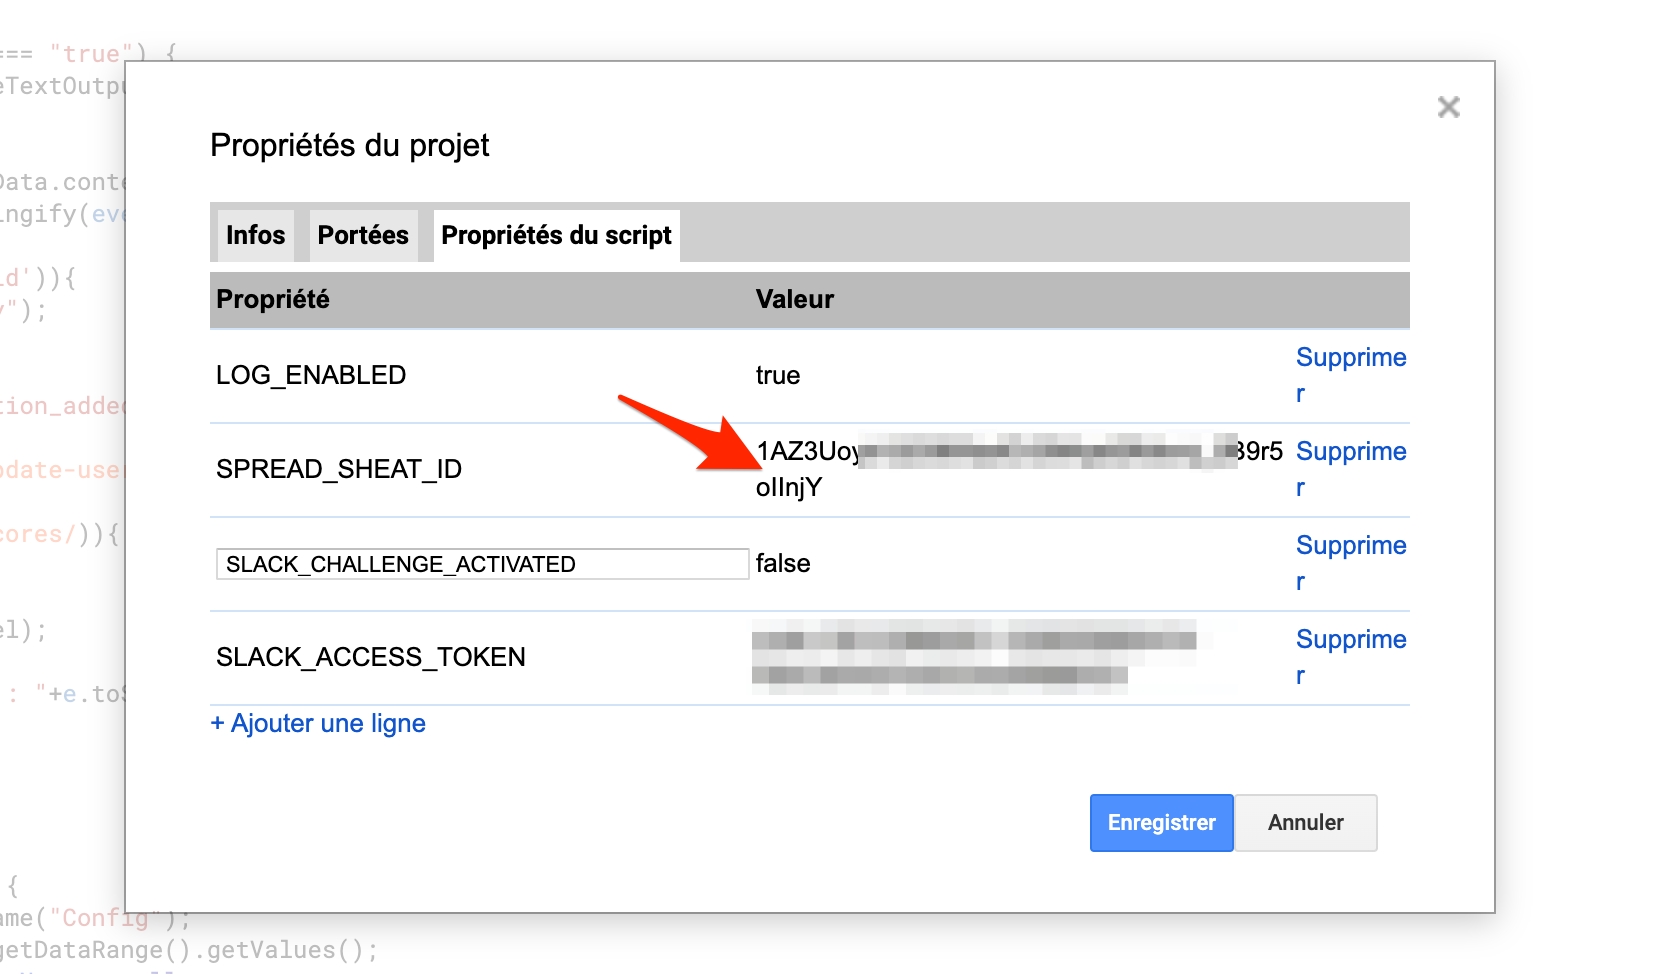
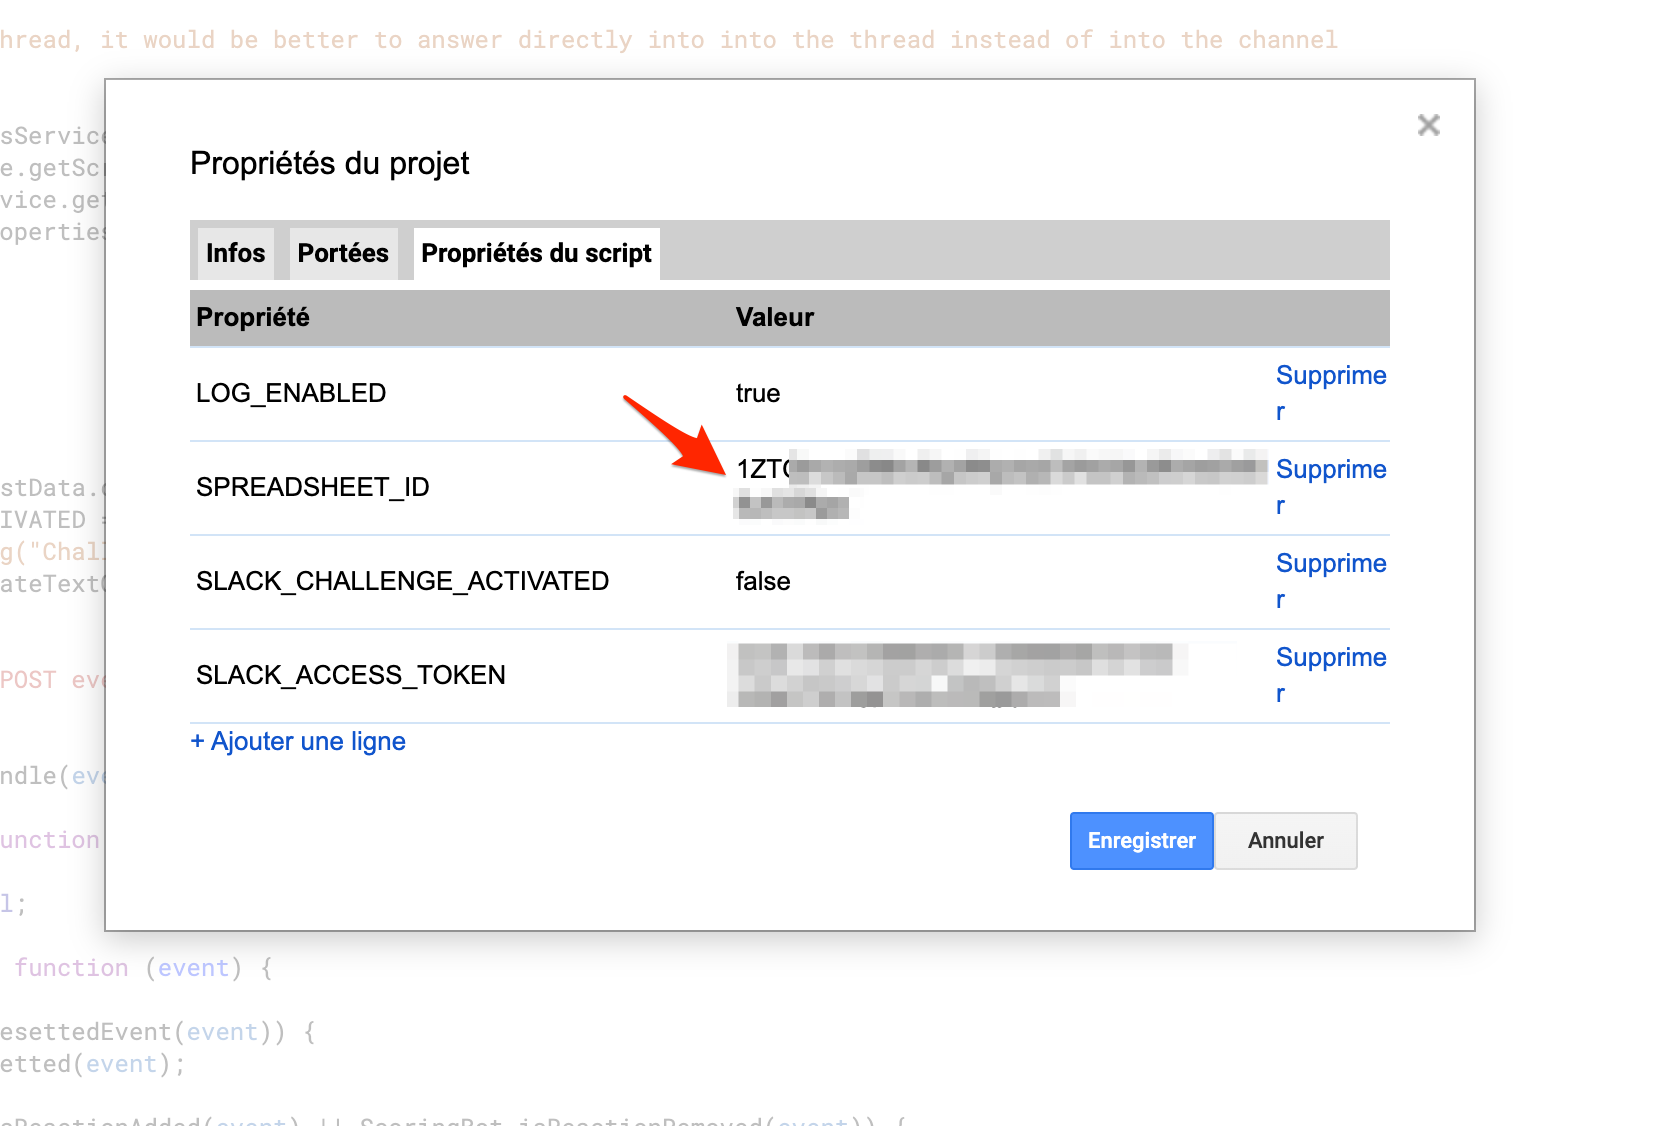
added installation precisions

diff --git a/scoring-slack-bot/main/index.ts b/scoring-slack-bot/main/index.ts
@@ -102,6 +102,7 @@ class ScoringBot {
         this.updateUsers();
       } else if(ScoringBot.isUpdateUsersCommand(event)) {
         this.updateUsers();
+        this.botShouldSay(event.channel, "Users have been updated");
       } else if(ScoringBot.isScoresCommand(event)) {
         this.showScoresFor(event.channel);
       } else if(ScoringBot.isHelpCommand(event)) {
@@ -255,7 +256,7 @@ Following observed interactions are configured on this channel :
     for(let i=0; i<configuredReactions.length; i++){
       const reaction = configuredReactions[i];
       const scoreIncrement = channelConfig.config.reactionsConfigs[reaction].scoreIncrement;
-      message += `- When reaction :${reaction}: is set ${allowedUserMessage} : adding ${scoreIncrement} point${(scoreIncrement>1?"s":"")} for message author receving the reaction\n`;
+      message += `- When reaction :${reaction}: is set ${allowedUserMessage} : adding ${scoreIncrement} point${(scoreIncrement>1?"s":"")} for target message's author receving the reaction\n`;
     }
 
     message += `

diff --git a/README.md b/README.md
@@ -35,9 +35,10 @@ Some sample quizz channel I setup at 4SH using this bot :
 ### Slack Bot Deployment
 
 - Move to the `scoring-slack-bot/` directory then run `npm install` on it
-- Authenticate with `clasp` (google app script CLI) with `npx clasp login` (follow instructions)
+- Authenticate with `clasp` (google app script CLI) with `npx clasp login` (follow instructions)  
+  Note: `clasp` is a CLI to manage your Google App Scripts, and it's powered by Google (more infos [here](https://codelabs.developers.google.com/codelabs/clasp/))
 - Enable app script API here : https://script.google.com/home/usersettings
-- Run `npx clasp create` then choose `api` in the list of script types : a new google app script should be created under your google account.
+- Run `npx clasp create --type api` : a new google app script should be created under your google account.
 - Run `npx clasp push` (or `npx clasp push --watch` if you want to edit/auto-deploy some changes made to the script)
   - `Manifest file has been updated. Do you want to push and overwrite?` => Answer "Yes" here
     Files are going to be compiled and pushed into your Google App Script.
@@ -45,17 +46,17 @@ Some sample quizz channel I setup at 4SH using this bot :
 - Open your app script by running `npx clasp open`
   - Once opened, click on the "play" button in order to try to execute doPost function
   - By executing this, you should have an `Authorization required` popup : examine and grant authorizations to your current google account
+    Note that if you get a "This application has not been validated (yet) by Google" error, click on `Advanced parameters`
+    and proceed to the page (unsecure content)
   - There may have some errors executing doPost : don't worry that's expected (purpose was only to grant authorization to your user)
-  - Open the `Publish > Deploy as web app menu`
-  - In the popup, copy/paste the "Current Web app URL" : this is going to be your HTTP entrypoint for the Bot  
+  - Open the `Publish > Deploy as web app` menu
+  - In the popup, copy `Current Web app` URL : this is going to be your HTTP entrypoint for the Bot  
     ⚠ Avoid sharing this URL too widely, as anyone having access to this URL will be able to control the Bot and cheat :-)
   - Open `File > Project Properties` and select the `Script Properties` tab then create following properties / values :
 
   | Property name | Value | Meaning |
   |---------------|-------|---------|
-  | SLACK_ACCESS_TOKEN | _let this blank for the moment_ | This is going to be useful, but later |
   | LOG_ENABLED | true | This can be helpful to see logs, particularly at the beginning |
-  | SPREADSHEET_ID | _let this blank for the moment_ | This is going to be useful, but later |
   | SLACK_CHALLENGE_ACTIVATED | true | Put this to true in order to allow Slack bot challenge |
 
 
@@ -68,11 +69,11 @@ Some sample quizz channel I setup at 4SH using this bot :
   <img src="./assets/Slack_App_Creation_Popup.png" width="800px" alt="Filling App Creation Popup" />
 - Once done, and from `Basic Information` screen, open the `Event subscriptions` configuration page
   <img src="./assets/Slack_Bot_-_subscribe_to_events.png" width="800px" alt="Opening eveng subscriptions page" />
-- Activate events and fill the Google App Script's Slack Bot URL :
+- Activate events and paster Google App Script's Slack Bot URL you copied previously :
   <img src="./assets/Slack_Event_Subscription_configuration.png" width="800px" alt="Events subcription configuration" />
-  - Wait for Google App Script challenge verification : if this is not the case, review GAS' `SLACK_CHALLENGE_ACTIVATED` project property
+  - Wait for Google App Script challenge verification : if there is a failure, review Google App Script's `SLACK_CHALLENGE_ACTIVATED` project property
    to ensure this is valued to `true` and verify that GAS execution authorization has been granted.
-  - Declare 3 bot events described in screenshot above : `message.channels`, `reaction_added` et `reaction_removed`
+  - Declare 3 `bot events` described in screenshot above : `message.channels`, `reaction_added` et `reaction_removed`
   - Don't forget to save changes
 - Once done, navigate to `OAuth & Permissions` section  
   <img src="./assets/Slack_bot_config_-_OAuth___Permissions.png" width="300px" alt="Navigating to OAuth Permissions screen" />
@@ -82,23 +83,27 @@ Some sample quizz channel I setup at 4SH using this bot :
     <img src="./assets/Slack_bot_-_Install_app_to_workspace.png" width="800px" alt="Installing app on workspace" />
   - Copy generated `Bot User OAuth Access Token` ...
     <img src="./assets/Slack_bot_config_-_OAuth_Access_Token.png" width="800px" alt="Slack Bot Access Token" />
-  - ... and paste it into Google App Script's `SLACK_ACCESS_TOKEN` Project Properties. At the same time, disable `SLACK_ACCESS_TOKEN` flag.
+  - ... and paste it into Google App Script's `SLACK_ACCESS_TOKEN` Project Properties. At the same time, disable `SLACK_CHALLENGE_ACTIVATED` flag.
     <img src="./assets/GAS_Slack_bot_properties.png" width="800px" alt="Updating GAS Project properties" />
 
 
 ### Scores Spreadsheet config & DB creation
 
 - Move to the `slack-scores-sheet/` directory then run `npm install` on it
-- Run `npx clasp create` then choose `sheets` in the list of script types : a new google spreadsheet & app script should be created under your google account.
+- Run `npx clasp create --type sheets` : a new google spreadsheet & app script should be created under your google account.
   - Copy generated google spreadsheet id ...
     <img src="./assets/Google_Spreadsheet_generated_id.png" width="800px" alt="Retrieving Google Spreadsheet id" />
-  - And paste it into the GAS `SPREADSHEET_ID` project property
+  - ... and paste it into the GAS `SPREADSHEET_ID` project property
     <img src="./assets/Updating_spreadsheet_id_in_GAS.png" width="800px" alt="Updating google spreadsheet id in GAS" />
-  - Open Google spreadsheet based on the created URL
+  - Open Google spreadsheet based on the created URL : this will be useful in next steps as we're going to fill this spreadsheet
+    with some data.
+- Run `npx clasp push` (or `npx clasp push --watch` if you want to edit/auto-deploy some changes made to the script)
+  - `Manifest file has been updated. Do you want to push and overwrite?` => Answer "Yes" here
+    Files are going to be compiled and pushed into your Google App Script.
 
 ### Slack channel configuration
 
-- Open Slack and invite the bot into one of the channel (prefer to choose a testing channel to begin with) : `/invite @<bot_name>`
+- Open Slack and invite the bot into one of your channels (prefer to choose a testing channel to begin with) : `/invite @<bot_name>`
 - Initialize the channel by saying `!setup <a config name>` (use any string, like `testing` for the config name)
 - This command should create a lot of tabs in the Google Spreadsheet (`Logs`, `UserList`, `Config`, `<config name>`, `<config name>-ReactionsLog`)
 - You can configure your channel preferences on the `Config` tab, on the `ChannelConfig` cell which is a JSON :
